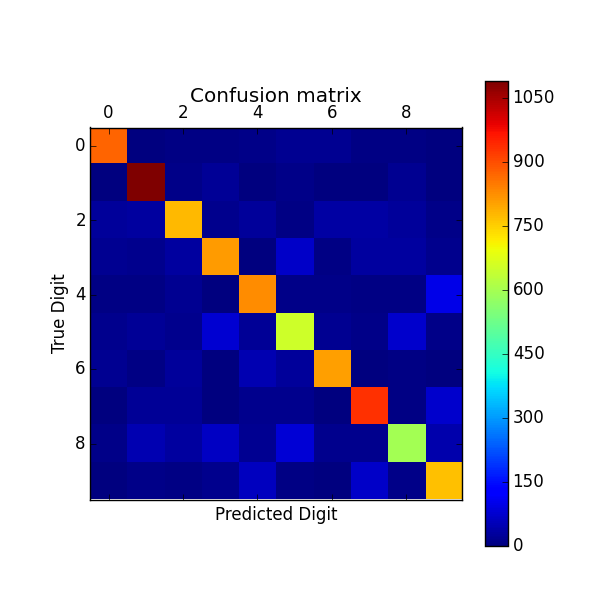
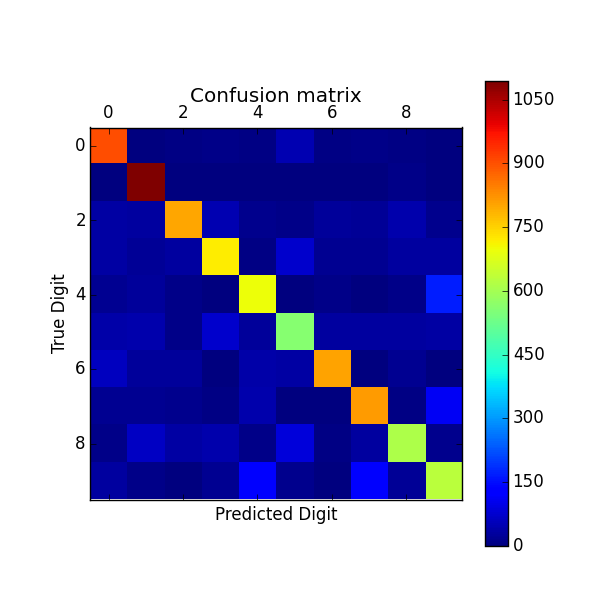
Problem 3 (Cross Validation) Working

diff --git a/HW1/problem1.py b/HW1/problem1.py
@@ -4,20 +4,33 @@
 # and 10,000. Make sure you set aside 10,000 other training points as a validation set.
 # You should expect accuracies between 70% and 90% at this stage
 
+# Function to calculate cross validation scores 
+# Input: SVC object, data, labels, num folds
+# Output: Array of scores averaged for each fold
 def computeCV_Score(clf, data, labels, folds):
     i = 0
     j = 0
     accuracy = 0.0
     scores = []
+    clf_local = clf
+    # For each fold trained on...
     for i in range(folds):
-        clf.fit(data[i], labels[i])
+        # Initialize variables
+        clf_local = clf
+        j = 0
+        accuracy = 0
+
+        clf_local.fit(data[i], labels[i])
+        # For each validation performed (k-1 total) on a fold
         for j in range(folds):
             if(j!=i):
-                predicted_Digits = clf.predict(data[j])
-                for elem1, elem2 in zip(predicted_Digits, labels[j]):
+                predicted_Digits = clf_local.predict(data[j])
+                for (elem1, elem2) in zip(predicted_Digits, labels[j]):
                     if elem1 == elem2:
                         accuracy+=1                
+            j+=1
         scores.append(100.0*accuracy/((folds-1)*len(predicted_Digits)))
+        i+=1
     return scores
 
 
@@ -94,7 +107,7 @@ for elem in imageComplete:
 
 ############# TRAIN SVM ############# 
 C = [0.000001, 0.001, 1, 1000, 1000000]                    # array of values for parameter C
-training_Size = [100, 200, 500, 1000, 2000]#, 5000, 10000]
+training_Size = [100, 200, 500, 1000]#, 2000, 5000, 10000]
 for elem in training_Size:
     if DEBUG:
         print 50*'-'
@@ -139,19 +152,23 @@ crossValidation_Data= []
 crossValidation_Labels = []
 k = 10 
 lengthData = 10000
-stepLength = lengthData/k
+stepLength = k
 for index in range(0,k):
     crossValidation_Data.append(shuffledData[index:lengthData:stepLength])
     crossValidation_Labels.append(shuffledLabels[index:lengthData:stepLength])
 
 if DEBUG:
-    print "Lengths of CV Data and Labels: ", len(crossValidation_Data), len(crossValidation_Labels)
+    print 50*'-'
+    print "Lengths of CV Data and Labels: ", np.array(crossValidation_Data).shape, np.array(crossValidation_Labels).shape
+    print 50*'-'
 
 for C_Value in C:
     clf = svm.SVC(kernel='linear', C=C_Value)
-    scores = computeCV_Score(clf, shuffledData[:10000], shuffledLabels[:10000], 10)
+    scores = computeCV_Score(clf, crossValidation_Data, crossValidation_Labels, k)
+    print 50*'-'
     print scores
-    print "C Value:", C_Value, "Accuracy: %0.2f (+/- %0.2f)" % (scores.mean(), scores.std() / 2)
+    print "C Value:", C_Value, "Accuracy: %0.2f (+/- %0.2f)" % (np.array(scores).mean(), np.array(scores).std() / 2)
+    print 50*'-'
 
 ############# CROSS-VALIDATION ############# 
 
